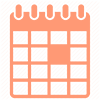
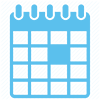
Loader and skin changes

diff --git a/src/assets/css/style.css b/src/assets/css/style.css
@@ -51,11 +51,7 @@ body, input, select, textarea {
   line-height: 1.3;
 }
 body{
-  background: #fff4ee;
-  /* display: flex;
-  flex-wrap: wrap;
-  align-items: center;
-  justify-content: center; */
+  background: #e7f8ff;
   min-height: 100vh;
 }
 
@@ -106,21 +102,57 @@ p {
 }
 /* Header
 ______________________*/
+.logo-wrap{
+  background: #fff;
+}
+.logo{
+  padding: 15px 0;
+}
+.logo img{
+  max-height: 62px;
+}
 .popover{
-  background: #FF9975;
+  background: #5bc0ed;
+  border-color: #5bc0ed;
 }
   .popover-body{
     color: #fff;
   }
   .bs-popover-auto[x-placement^=top]>.arrow::after, 
   .bs-popover-top>.arrow::after{
-    border-top-color: #FF9975;
+    border-top-color: #5bc0ed;
   }
 .banner-wrap{
-  background: url(../images/banner.jpg) center 60% no-repeat;
-  background-size: cover;
+  background: url(../images/banner.jpg) no-repeat;
+  background-position: center 60% !important;
+  background-size: cover !important;
   height: 350px;
   margin: 0 0 40px;
+}
+.loader{
+  position: relative;
+}
+.loader:before{
+  content: " ";
+  position: absolute;
+  left: 0;
+  right: 0;
+  top: 0;
+  bottom: 0;
+  width: 100%;
+  height: 100%;
+  background: rgba(255,255,255, 0.6);
+}
+.loader:after{
+  content: " ";
+  position: absolute;
+  left: 50%;
+  top: 50%;
+  background: url(/assets/images/loading.gif) no-repeat;
+  background-size: 100% auto;
+  width: 60px;
+  height: 60px;
+  margin: -30px 0 0 -30px;
 }
 .article-wrap{
   width: 650px;
@@ -128,10 +160,6 @@ ______________________*/
   text-align: center;
   padding: 0 0 40px;
 }
-  .article-title{
-    min-height: 150px;
-    margin: 0 0 30px;
-  }
   .article-wrap h2{
     font-size: 30px;
     margin: 0 0 10px;
@@ -142,11 +170,6 @@ ______________________*/
       margin: 0 0 30px;
       padding: 0;
     }
-  .article-body{
-    max-width: 500px;
-    margin: 0 auto;
-    padding: 0 0 40px;
-  }
   .form-field{
     max-width: 450px;
     text-align: left;
@@ -179,8 +202,8 @@ ______________________*/
     color: #7C7C7C;
     font-size: 18px;
     padding: 14px 10px 15px 20px;
-    border: 3px solid #FF9975;
-    background: rgba(255, 153, 113, 0.2) !important;
+    border: 3px solid #5bc0ed;
+    background: #fff !important;
     height: auto;
     text-align: left;
     outline: none;
@@ -189,20 +212,29 @@ ______________________*/
     border-radius: 0;
   }
   .article-wrap .custom-field:focus{
-    box-shadow: 0 0 0 0.2rem rgba(255, 153, 113, 0.3);
+    box-shadow: 0 0 0 0.2rem rgba(91, 192, 234, 0.5);
   }
   .article-wrap .custom-field.error{
     border-color: #ff0000;
   }
     .article-wrap .custom-field.field-datepicker{
-      background:rgba(255, 153, 113, 0.2) url(../images/datepicker-icon.png) 98% 45% no-repeat !important;
+      background:#fff url(../images/datepicker-icon.png) 98% 45% no-repeat !important;
       background-size: 30px auto !important;
     }
     .bs-datepicker-container{
       padding: 0;
     }
-    .theme-orange .bs-datepicker-head{
-      background-color: #FF9975;
+    .theme-orange .bs-datepicker-head,
+    .theme-orange .bs-datepicker-body table td span.selected, 
+    .theme-orange .bs-datepicker-body table td.selected span, 
+    .theme-orange .bs-datepicker-body table td span[class*="select-"]:after, 
+    .theme-orange .bs-datepicker-body table td[class*="select-"] span:after{
+      background-color: #09425d;
+      background: #09425d;
+      background-image: linear-gradient(#09425d, #3f7892);
+    }
+    .theme-orange .bs-datepicker-body table td.week span{
+      color: #5bc0ed;
     }
   .article-footer{
     display: flex;
@@ -216,8 +248,8 @@ ______________________*/
     margin-left: auto;
   }
   .article-footer .btn{
-    border:4px solid #FF9975;
-    color: #FF9975;
+    border:4px solid #5bc0ed;
+    color: #5bc0ed;
     font-family: 'poppinsmedium';
     font-size: 18px;
     font-weight: 600;
@@ -228,8 +260,8 @@ ______________________*/
     border-radius: 10px;
   }
   .article-footer .btn:hover{
-    border-color: #F85647;
-    color: #000;
+    border-color: #3e7892;
+    color: #3e7892;
   }
 .article-pagination{
   text-align: center;
@@ -321,9 +353,9 @@ ______________________*/
       color: #000000;
       font-weight: 600;
       font-family: 'poppinsmedium';
-      background:rgba(255, 153, 113, 0.2) url(../images/select-arrow.png) right center no-repeat;
+      background:#fff url(../images/select-arrow.png) right center no-repeat;
       background-size: 45px 60px;
-      border:3px solid #FF9975 !important;
+      border:3px solid #5bc0ed !important;
       box-shadow: none !important;
       outline: none !important;
       border-radius: 10px;
@@ -421,12 +453,19 @@ ______________________*/
 
 @media (max-width: 767px) {
   .banner-wrap{
+    display: none;
     height: 150px;
     margin: 0 0 25px;
   }
+  .logo{
+    padding: 20px 10px;
+  }
+  .logo img{
+    max-height: 50px;
+  }
   .article-wrap{
     width: 100%;
-    padding: 0 20px;
+    padding: 30px 25px;
   }
   .article-wrap h2{
     font-size: 30px;
@@ -443,6 +482,9 @@ ______________________*/
   }
   .article-pagination{
     padding: 40px 0 0;
+  }
+  .article-footer{
+    padding-top: 20px;
   }
   .date-wrap .date-inner{
     width: 100%;

diff --git a/src/app/wizard/step-basic/step-basic.component.ts b/src/app/wizard/step-basic/step-basic.component.ts
@@ -23,8 +23,8 @@ export class StepBasicComponent implements OnInit {
     this.activatedRoute.queryParams.subscribe(params => {
       console.log(params);
       this.ID = params["id"];
-      //this._http._get('login-input.json?id='+this.ID).subscribe(
-      this._http._get('workflow?ModelOnly=true&id='+this.ID).subscribe(
+      this._http._get('login-input.json?id='+this.ID).subscribe(
+      // this._http._get('workflow?ModelOnly=true&id='+this.ID).subscribe(
         response => {
           console.log(response);
           this.formBuilder = response;
@@ -38,8 +38,8 @@ export class StepBasicComponent implements OnInit {
     console.log(this.formBuilder);
     if (this.inputValidated()) {
       this.step++;
-      //this._http._get('workflow.json').subscribe(
-      this._http._post('ContinueWorkflowModelOnly', this.formBuilder).subscribe(
+      this._http._get('workflow.json').subscribe(
+      // this._http._post('ContinueWorkflowModelOnly', this.formBuilder).subscribe(
         response => {
           console.log(this.step);
           this.formBuilder = response[this.step];

diff --git a/src/app/wizard/step-basic/step-basic.component.html b/src/app/wizard/step-basic/step-basic.component.html
@@ -1,6 +1,12 @@
-<div class="banner-wrap">
-  
+<div class="logo-wrap">
+  <div class="container">
+    <div class="logo">
+      <img src="../../../assets/images/logo.jpg" alt="">
+    </div>
+  </div>
 </div>
+
+<div class="banner-wrap"></div>
 <div class="article-wrap" *ngIf="formBuilder">
     <!--
         1 => label
